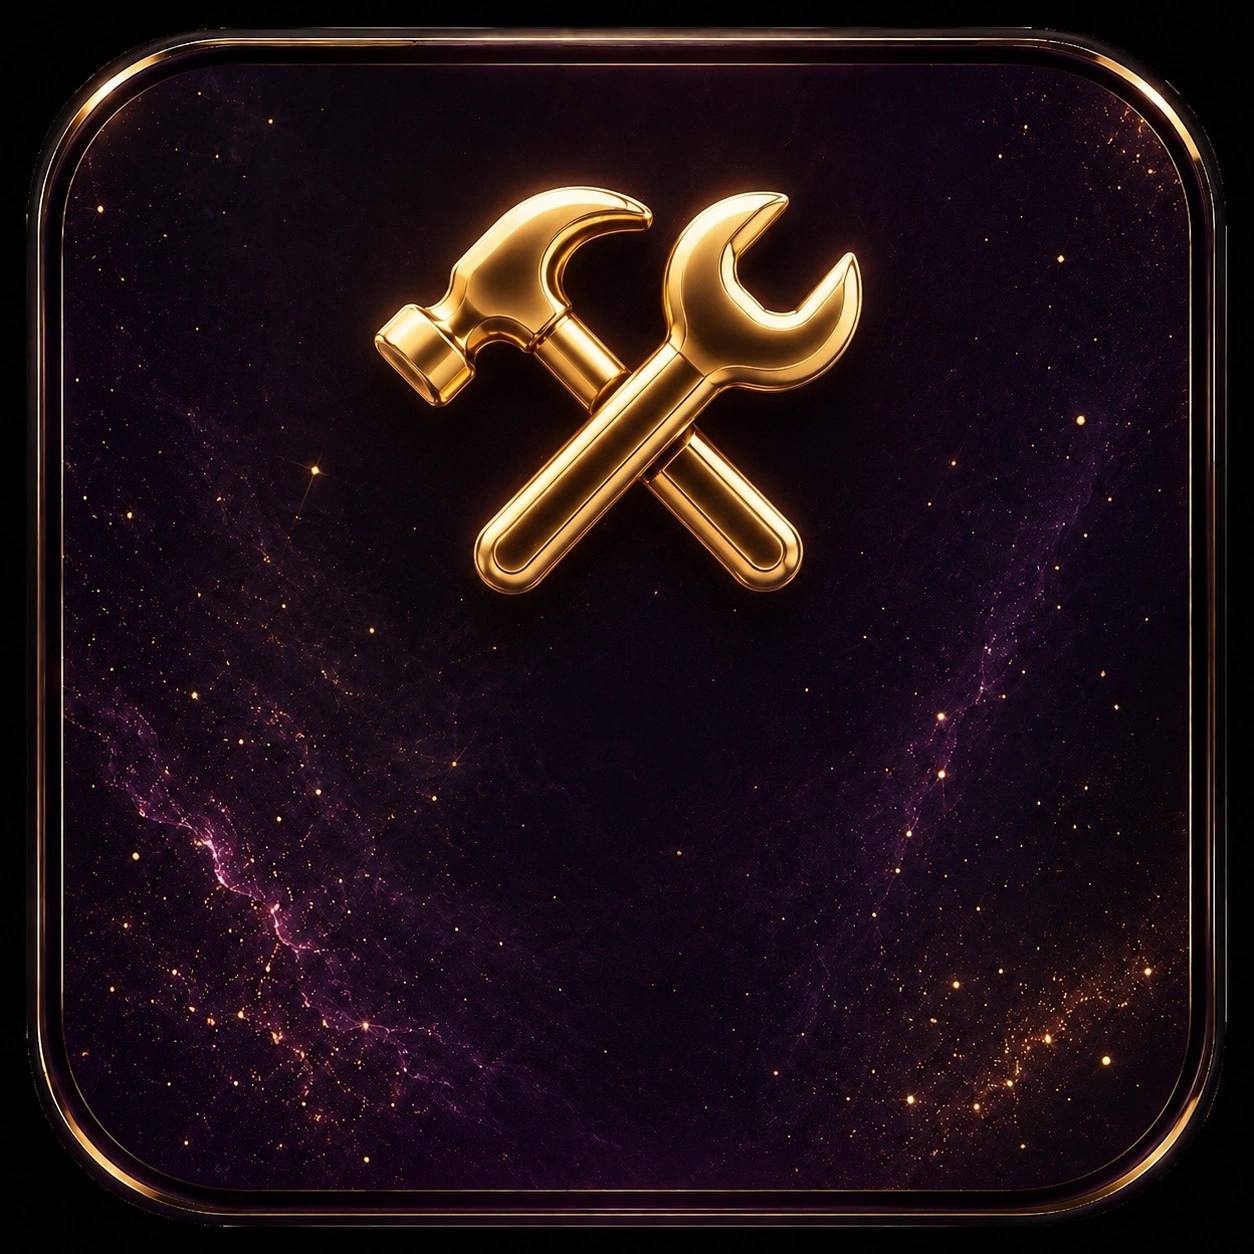
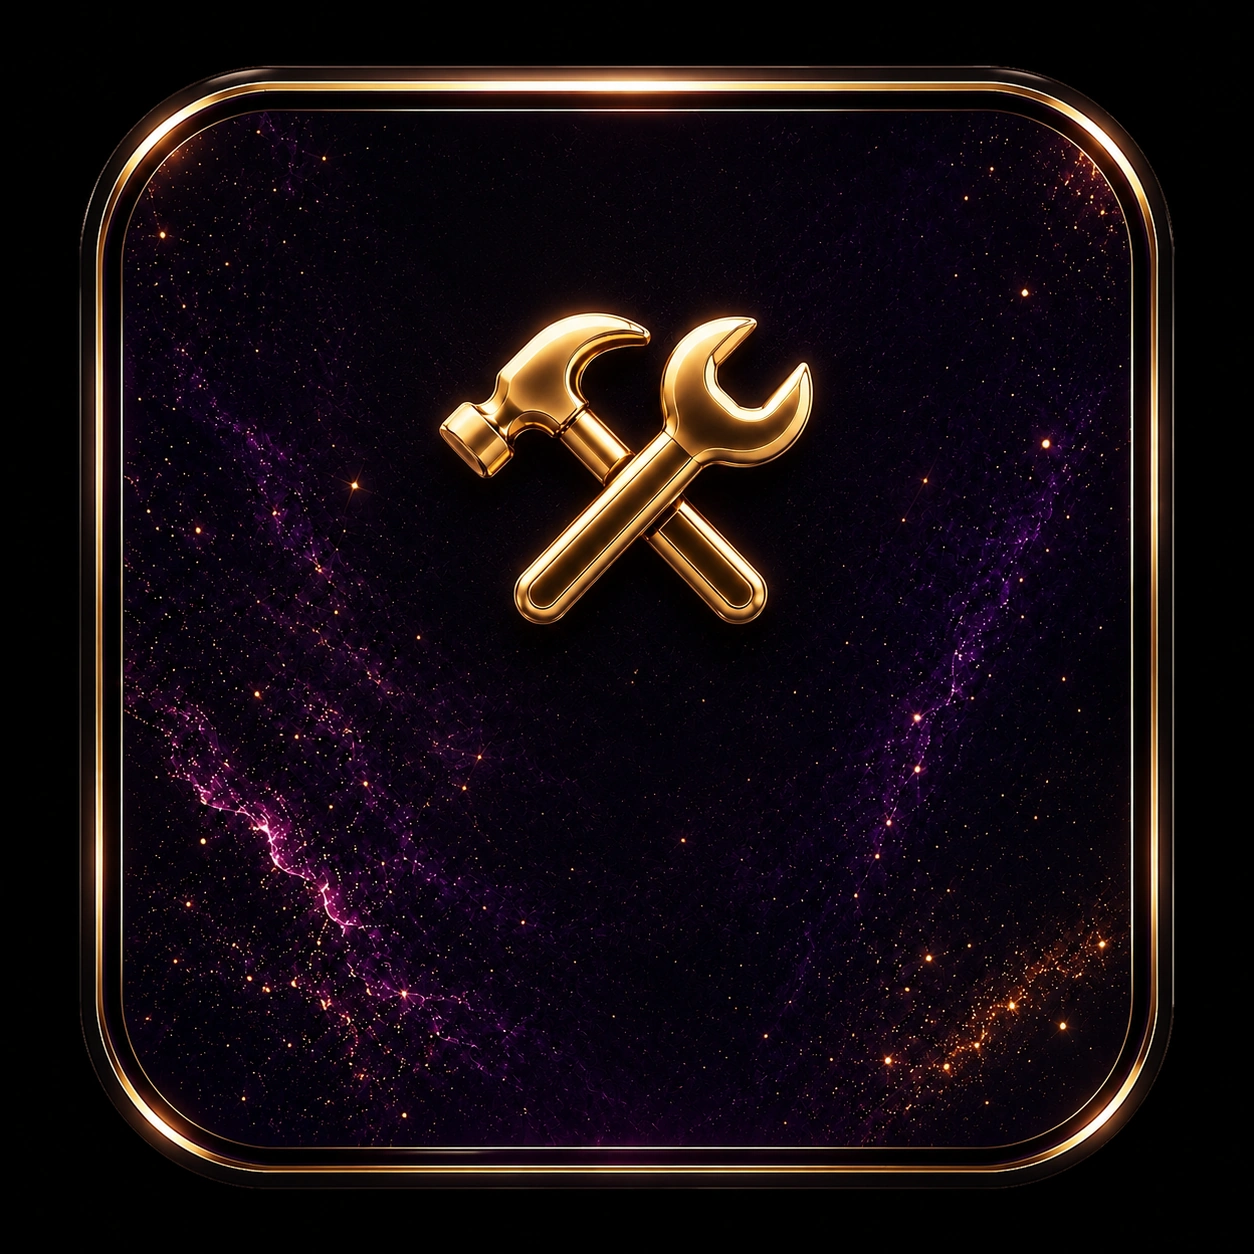
Grow Point Design integriert

Changed region(s): [[0.0, 0.0, 0.9952, 0.9952], [0.2799, 0.1244, 0.7153, 0.4976], [0.8086, 0.2177, 0.8397, 0.2488]]

diff --git a/features/feed/components/VideoOverlay.jsx b/features/feed/components/VideoOverlay.jsx
@@ -6,6 +6,7 @@ import { COLORS } from '../../../constants/colors';
 import { s, sv, sf, SCREEN } from '../../../constants/layout';
 import TourTarget from '../../onboarding/components/TourTarget';
 import VideoRatingSlider from './VideoRatingSlider';
+import { GROW_POINTS_ICON } from '../../../constants/toolAssets';
 
 const GROW_LOGO_HEADER = require('../../../assets/images/grow_banner_lossless.webp');
 
@@ -127,6 +128,11 @@ export default function VideoOverlay({
               ]}
               pointerEvents="none"
             >
+              <Image
+                source={GROW_POINTS_ICON}
+                style={styles.pointBubbleImage}
+                resizeMode="contain"
+              />
               <Text style={styles.pointBubbleText}>+1</Text>
             </Animated.View>
           )}
@@ -190,7 +196,7 @@ const styles = StyleSheet.create({
     height: s(42),
     justifyContent: 'center',
     alignItems: 'center',
-    transform: [{ translateX: s(2,2) }]
+    transform: [{ translateX: s(2,2) }],
   },
 
   pauseOverlay: {
@@ -223,23 +229,31 @@ const styles = StyleSheet.create({
   },
 
   pointBubble: {
-    marginTop: sv(60),
-    width: s(30),
-    height: s(30),
-    borderRadius: s(15),
-    backgroundColor: COLORS.gold,
+    marginTop: sv(58),
+    width: s(42),
+    height: s(42),
     justifyContent: 'center',
     alignItems: 'center',
     shadowColor: COLORS.black,
-    shadowOpacity: 0.22,
-    shadowRadius: s(6),
+    shadowOpacity: 0.24,
+    shadowRadius: s(7),
     shadowOffset: { width: 0, height: 2 },
     elevation: 4,
   },
 
+  pointBubbleImage: {
+    position: 'absolute',
+    width: '100%',
+    height: '100%',
+  },
+
   pointBubbleText: {
-    color: COLORS.nearBlack,
+    color: COLORS.gold,
     fontSize: sf(11),
-    fontWeight: '800',
+    fontWeight: '900',
+    textShadowColor: 'rgba(0,0,0,0.75)',
+    textShadowOffset: { width: 0, height: 1 },
+    textShadowRadius: s(3),
+    transform: [{ translateY: s(25) }],
   },
 });

diff --git a/features/tools/overview/styles/toolsOverviewStyles.js b/features/tools/overview/styles/toolsOverviewStyles.js
@@ -119,9 +119,9 @@ export const styles = StyleSheet.create({
   },
 
   coinImage: {
-    width: veryCompact ? s(32) : compact ? s(34) : s(38),
-    height: veryCompact ? s(32) : compact ? s(34) : s(38),
-    marginRight: compact ? s(6) : s(7),
+    width: veryCompact ? s(34) : compact ? s(36) : s(40),
+    height: veryCompact ? s(34) : compact ? s(36) : s(40),
+    marginRight: compact ? s(5) : s(6),
   },
 
   pointsValue: {

diff --git a/features/tools/overview/screens/ToolsOverviewScreen.jsx b/features/tools/overview/screens/ToolsOverviewScreen.jsx
@@ -20,7 +20,7 @@ import { COLORS } from '../../../../constants/colors';
 import { s, sv } from '../../../../constants/layout';
 import {
   GROW_AVATAR,
-  GROW_COIN,
+  GROW_POINTS_ICON,
   MENTOR_BG,
   preloadToolOverviewImageAssets,
   preloadToolPageBackgroundAssets,
@@ -304,7 +304,7 @@ export default function ToolsScreen() {
               >
                 <View style={styles.pointsContentRow}>
                   <Image
-                    source={GROW_COIN}
+                    source={GROW_POINTS_ICON}
                     style={styles.coinImage}
                     resizeMode="contain"
                   />

diff --git a/constants/toolAssets.js b/constants/toolAssets.js
@@ -16,6 +16,7 @@ export const TOOL_IMAGES = {
 
 export const MENTOR_BG = require('../assets/tool-icons/mentor-bg.webp');
 export const GROW_COIN = require('../assets/images/grow_coin.webp');
+export const GROW_POINTS_ICON = require('../assets/images/grow_points_leaf.webp');
 export const GROW_AVATAR = require('../assets/images/grow_avatar.webp');
 export const TRACKER_BG = require('../assets/tool-icons/active-tracker-bg.webp');
 export const TODO_PAGE_BG = require('../assets/tool-icons/backgrounds/todo-page-bg.webp');
@@ -34,6 +35,7 @@ export const TOOL_OVERVIEW_IMAGE_ASSETS = [
   MENTOR_BG,
   TRACKER_BG,
   GROW_COIN,
+  GROW_POINTS_ICON,
   GROW_AVATAR,
 ];
 